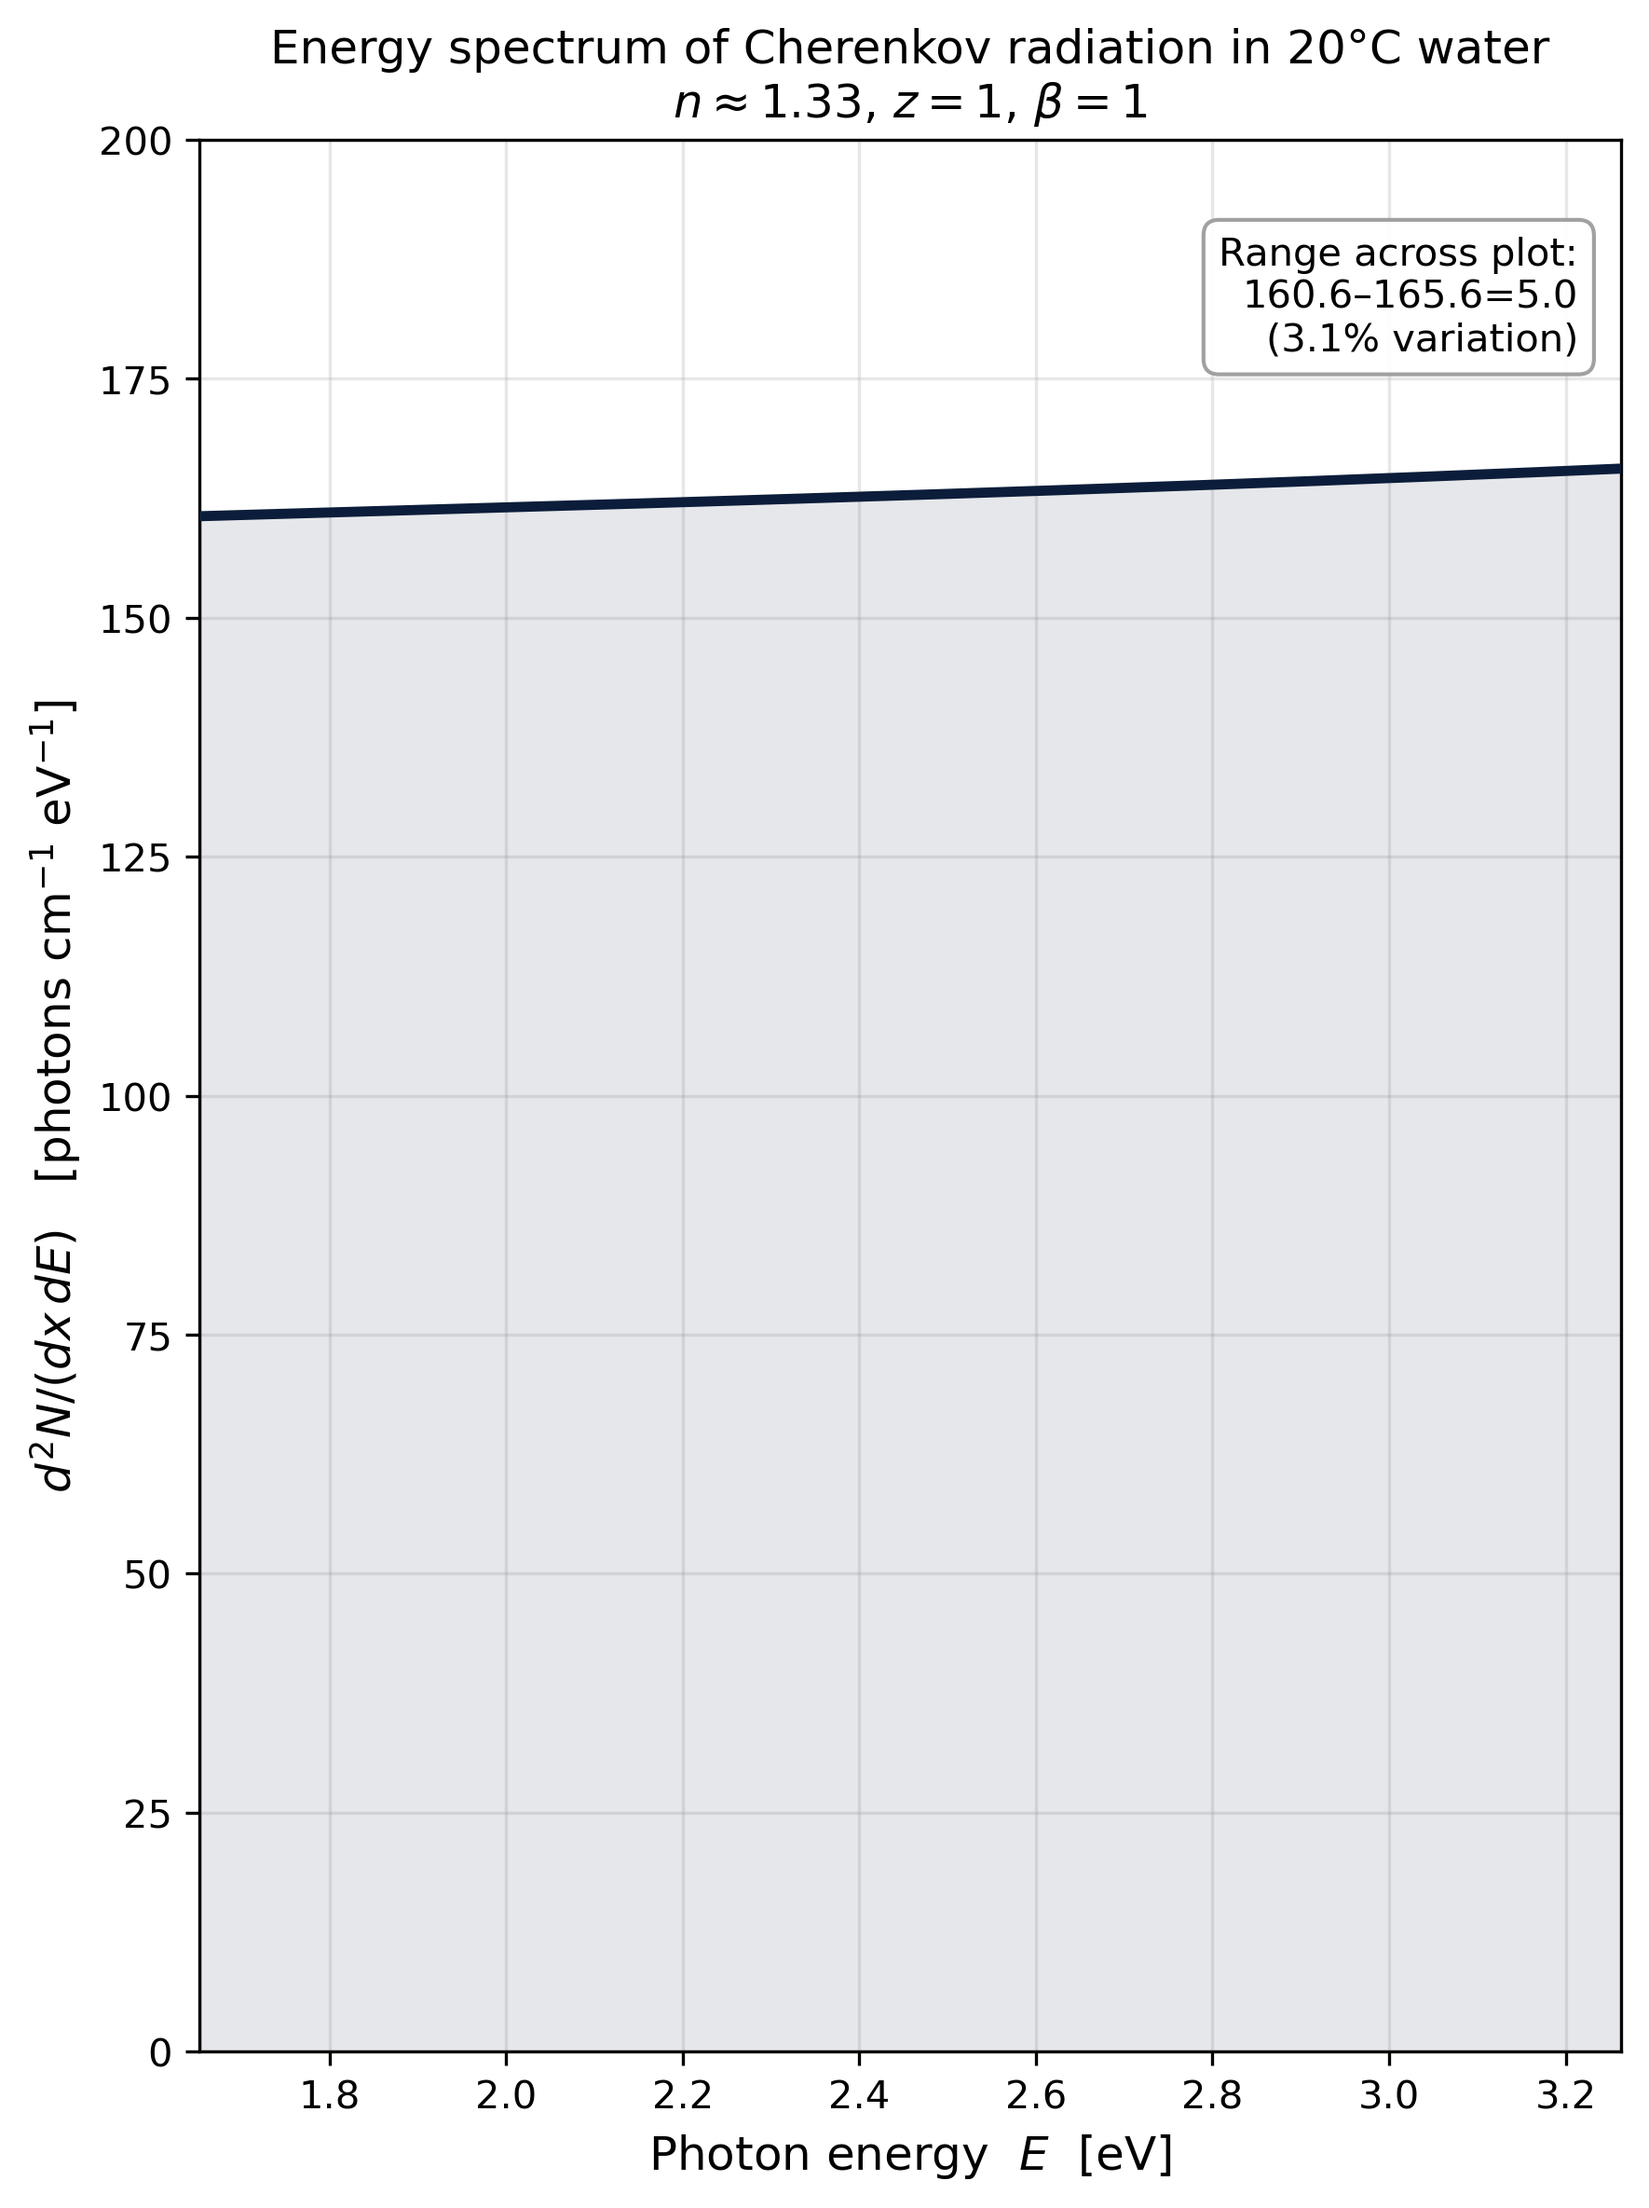
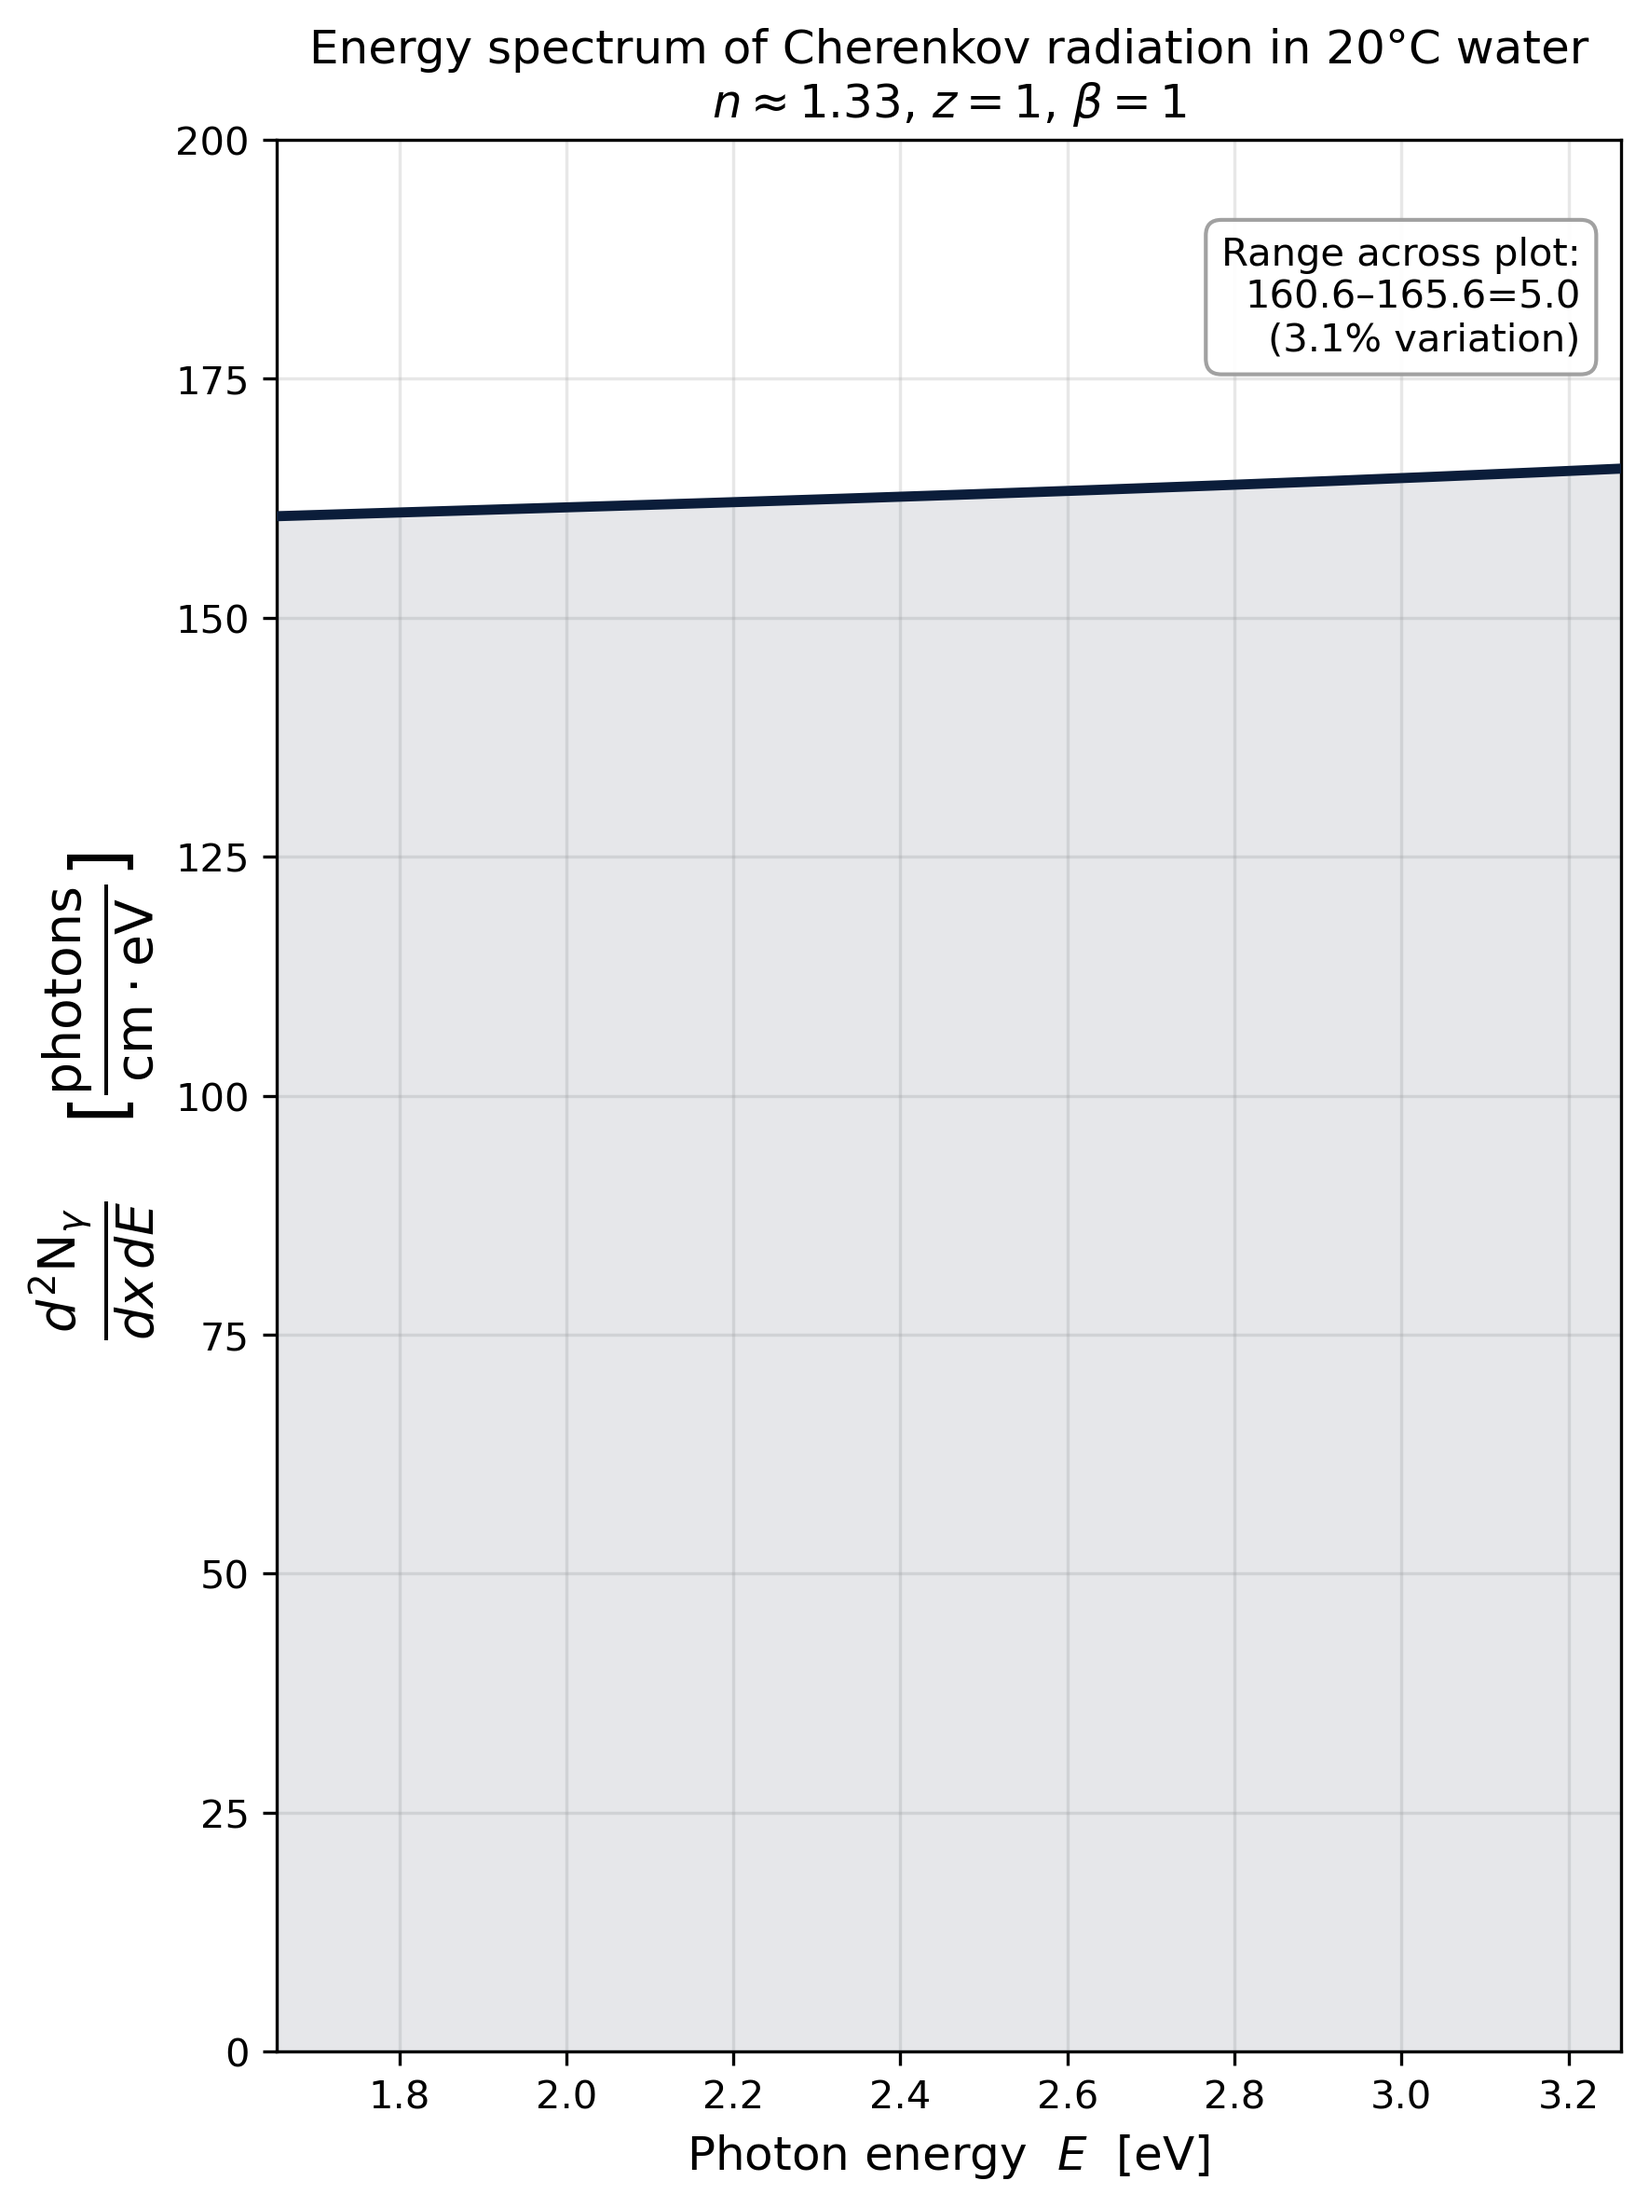
updated the axis labels to be consistently LaTeX'd. Still not sure what's up with the difference font sizes though...

diff --git a/frank_tamm_lambda.py b/frank_tamm_lambda.py
@@ -99,9 +99,9 @@ ax.imshow(
 # Curve on top
 ax.plot(lam_nm, dN_dxdlam, lw=2.4, color="#0b1d3a", zorder=3)
 
-ax.set_xlabel(r"Wavelength  $\lambda$  (nm)", fontsize=12)
-ax.set_ylabel(r"$\dfrac{d^2 N}{dx\,d\lambda}$   (photons cm$^{-1}$ nm$^{-1}$)",
-              fontsize=12)
+ax.set_xlabel(r"Wavelength  $\lambda$  [nm]", fontsize=12)
+ax.set_ylabel(r"$\dfrac{d^2 \mathsf{N}_\gamma}{dx\,d\lambda}$   [$\frac{\mathsf{photons}}{\mathsf{cm} \cdot \mathsf{nm}}$]",
+              fontsize=14)
 ax.set_title(
     f"Cherenkov spectrum in {medium_label}\n"
     rf"$n \approx 1.33$, $z={z}$, $\beta={beta:g}$  —  (Франк & Тамм 1937)",
@@ -127,11 +127,11 @@ mask = (lam_nm >= uvEdge) & (lam_nm <= irEdge)
 N_vis = np.trapezoid(dN_dxdlam[mask], lam_nm[mask])
 ax.text(
     0.97, 0.95,
-    f"∫({uvEdge}–{irEdge} nm) ≈ {N_vis:.0f} photons / cm",
+    f"∫({uvEdge}–{irEdge} [nm]) ≈ {N_vis:.0f} [photons / cm]",
     transform=ax.transAxes, ha="right", va="top", fontsize=10,
     bbox=dict(boxstyle="round,pad=0.4", fc="white", ec="#999", alpha=0.92),
     zorder=5,
 )
 
 plt.tight_layout()
-print(f"Integrated {uvEdge}-{irEdge} nm: {N_vis:.1f} photons/cm")
+print(f"Integrated {uvEdge}-{irEdge} [nm]: {N_vis:.1f} [photons/cm]")

diff --git a/frank_tamm_energy.py b/frank_tamm_energy.py
@@ -51,7 +51,7 @@ ax.plot(E_eV, dN_dxdE, lw=2.6, color="#0b1d3a", zorder=3)
 ax.fill_between(E_eV, 0, dN_dxdE, alpha=0.10, color="#0b1d3a", zorder=2)
 
 ax.set_xlabel(r"Photon energy  $E$  [eV]", fontsize=12)
-ax.set_ylabel(r"$d^2N/(dx\,dE)$   [photons cm$^{-1}$ eV$^{-1}$]", fontsize=12)
+ax.set_ylabel(r"$\frac{d^2\mathsf{N}_\gamma}{dx\,dE}$   [$\frac{\mathsf{photons}}{\mathsf{cm} \cdot \mathsf{eV}}$]", fontsize=19)
 ax.set_xlim(E_min, E_max)
 ax.set_ylim(0, y_top)
 ax.grid(alpha=0.3, zorder=1)
